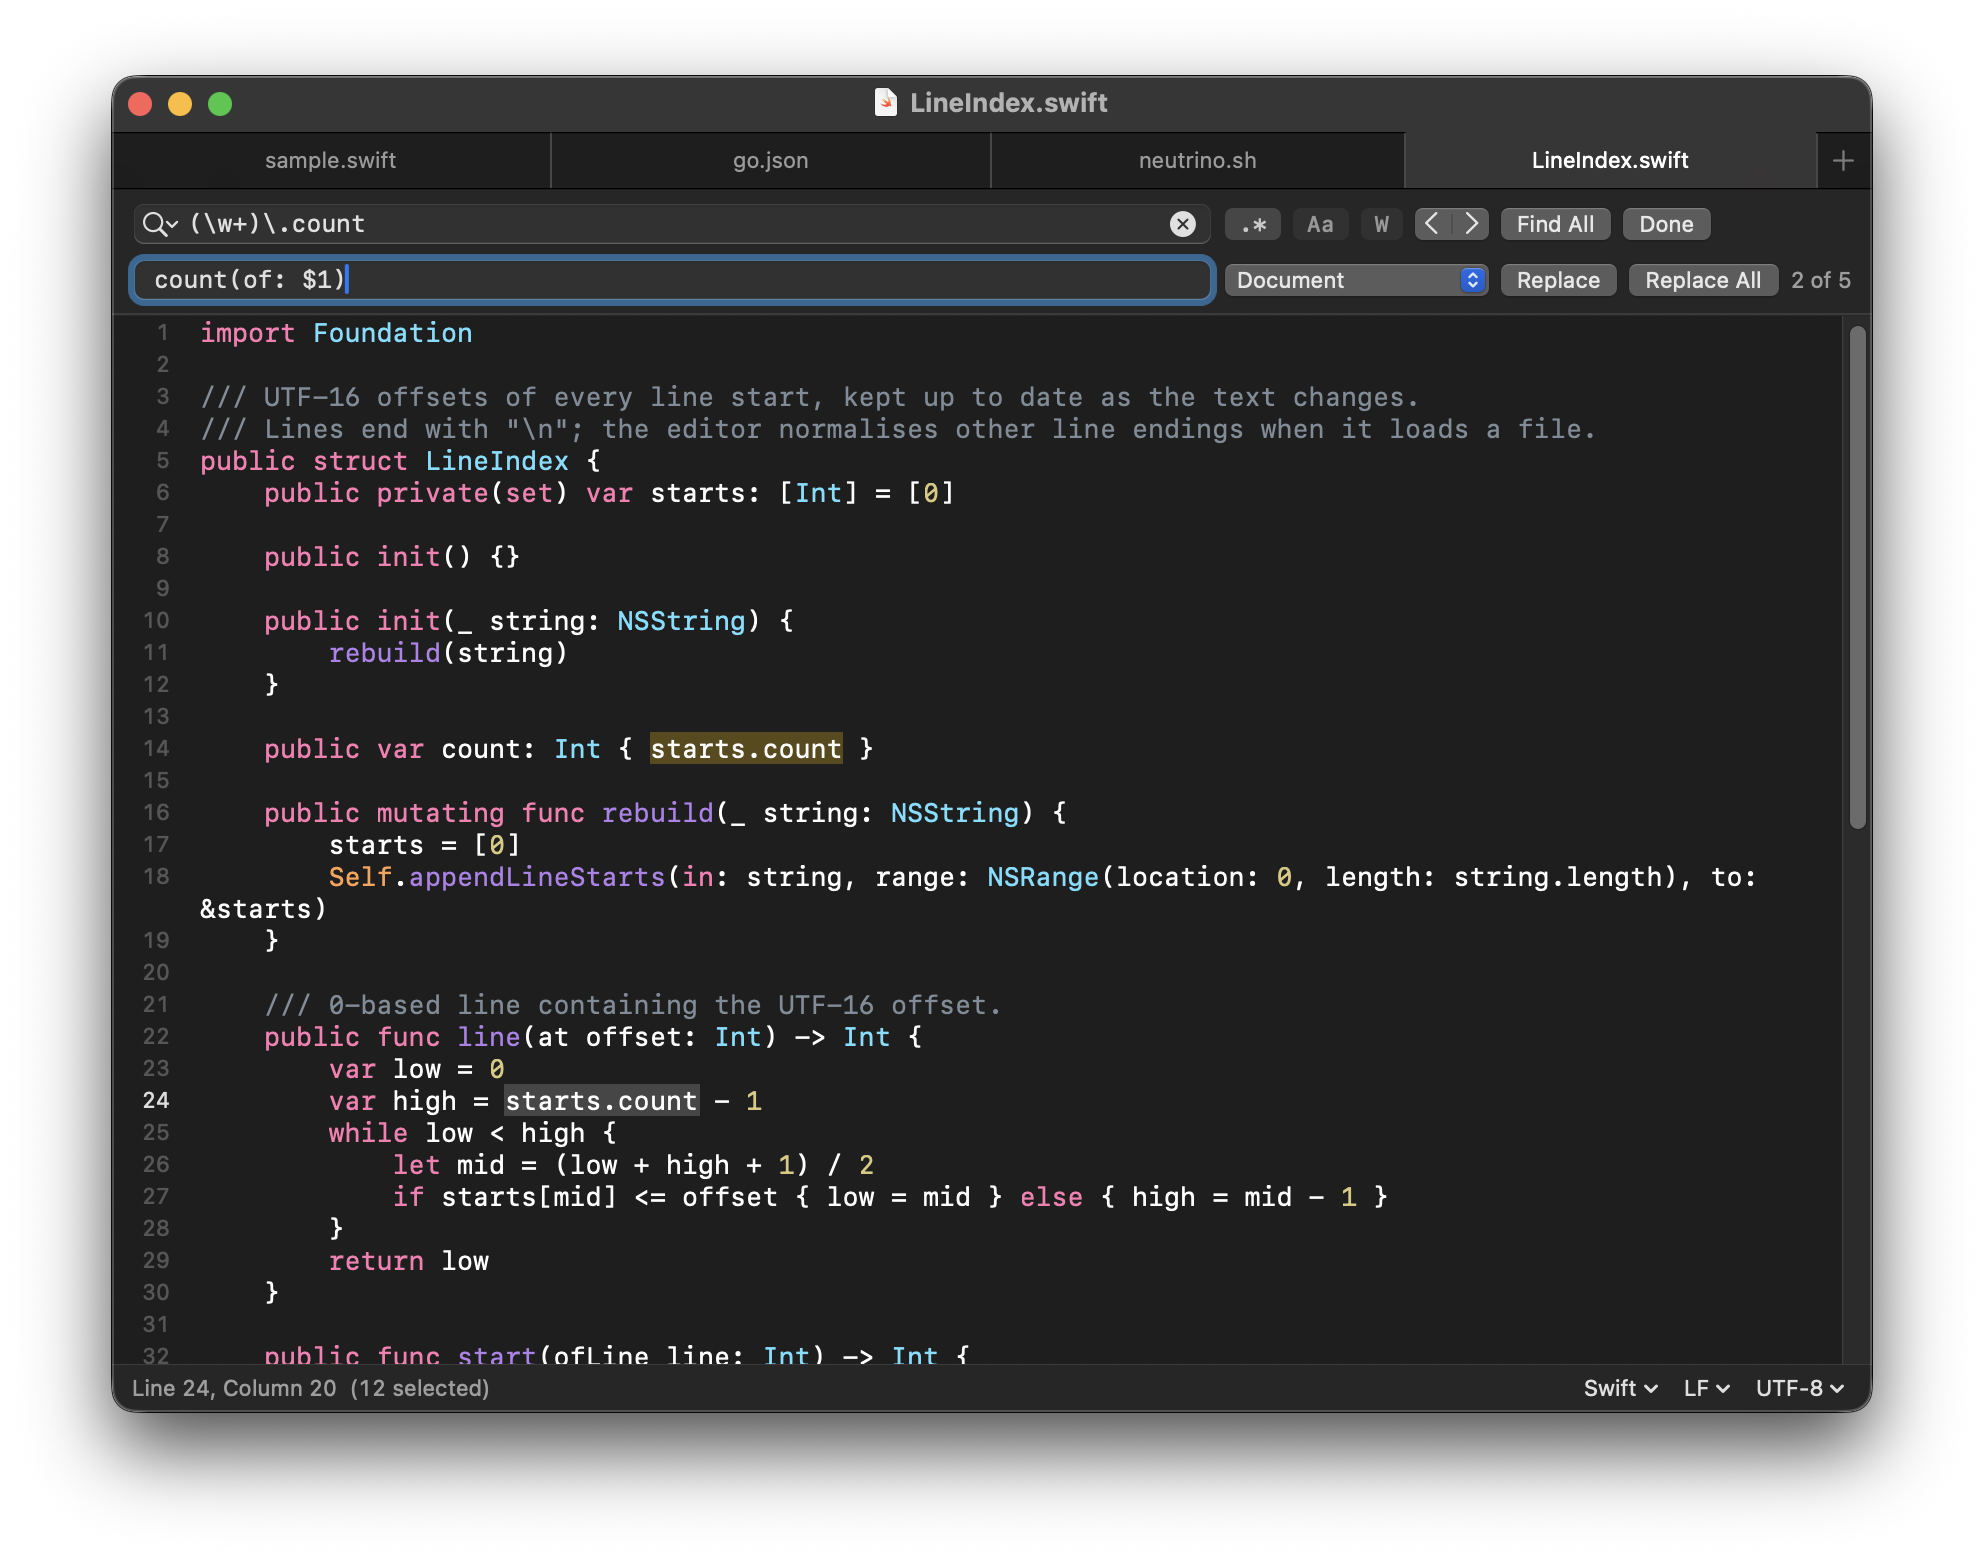
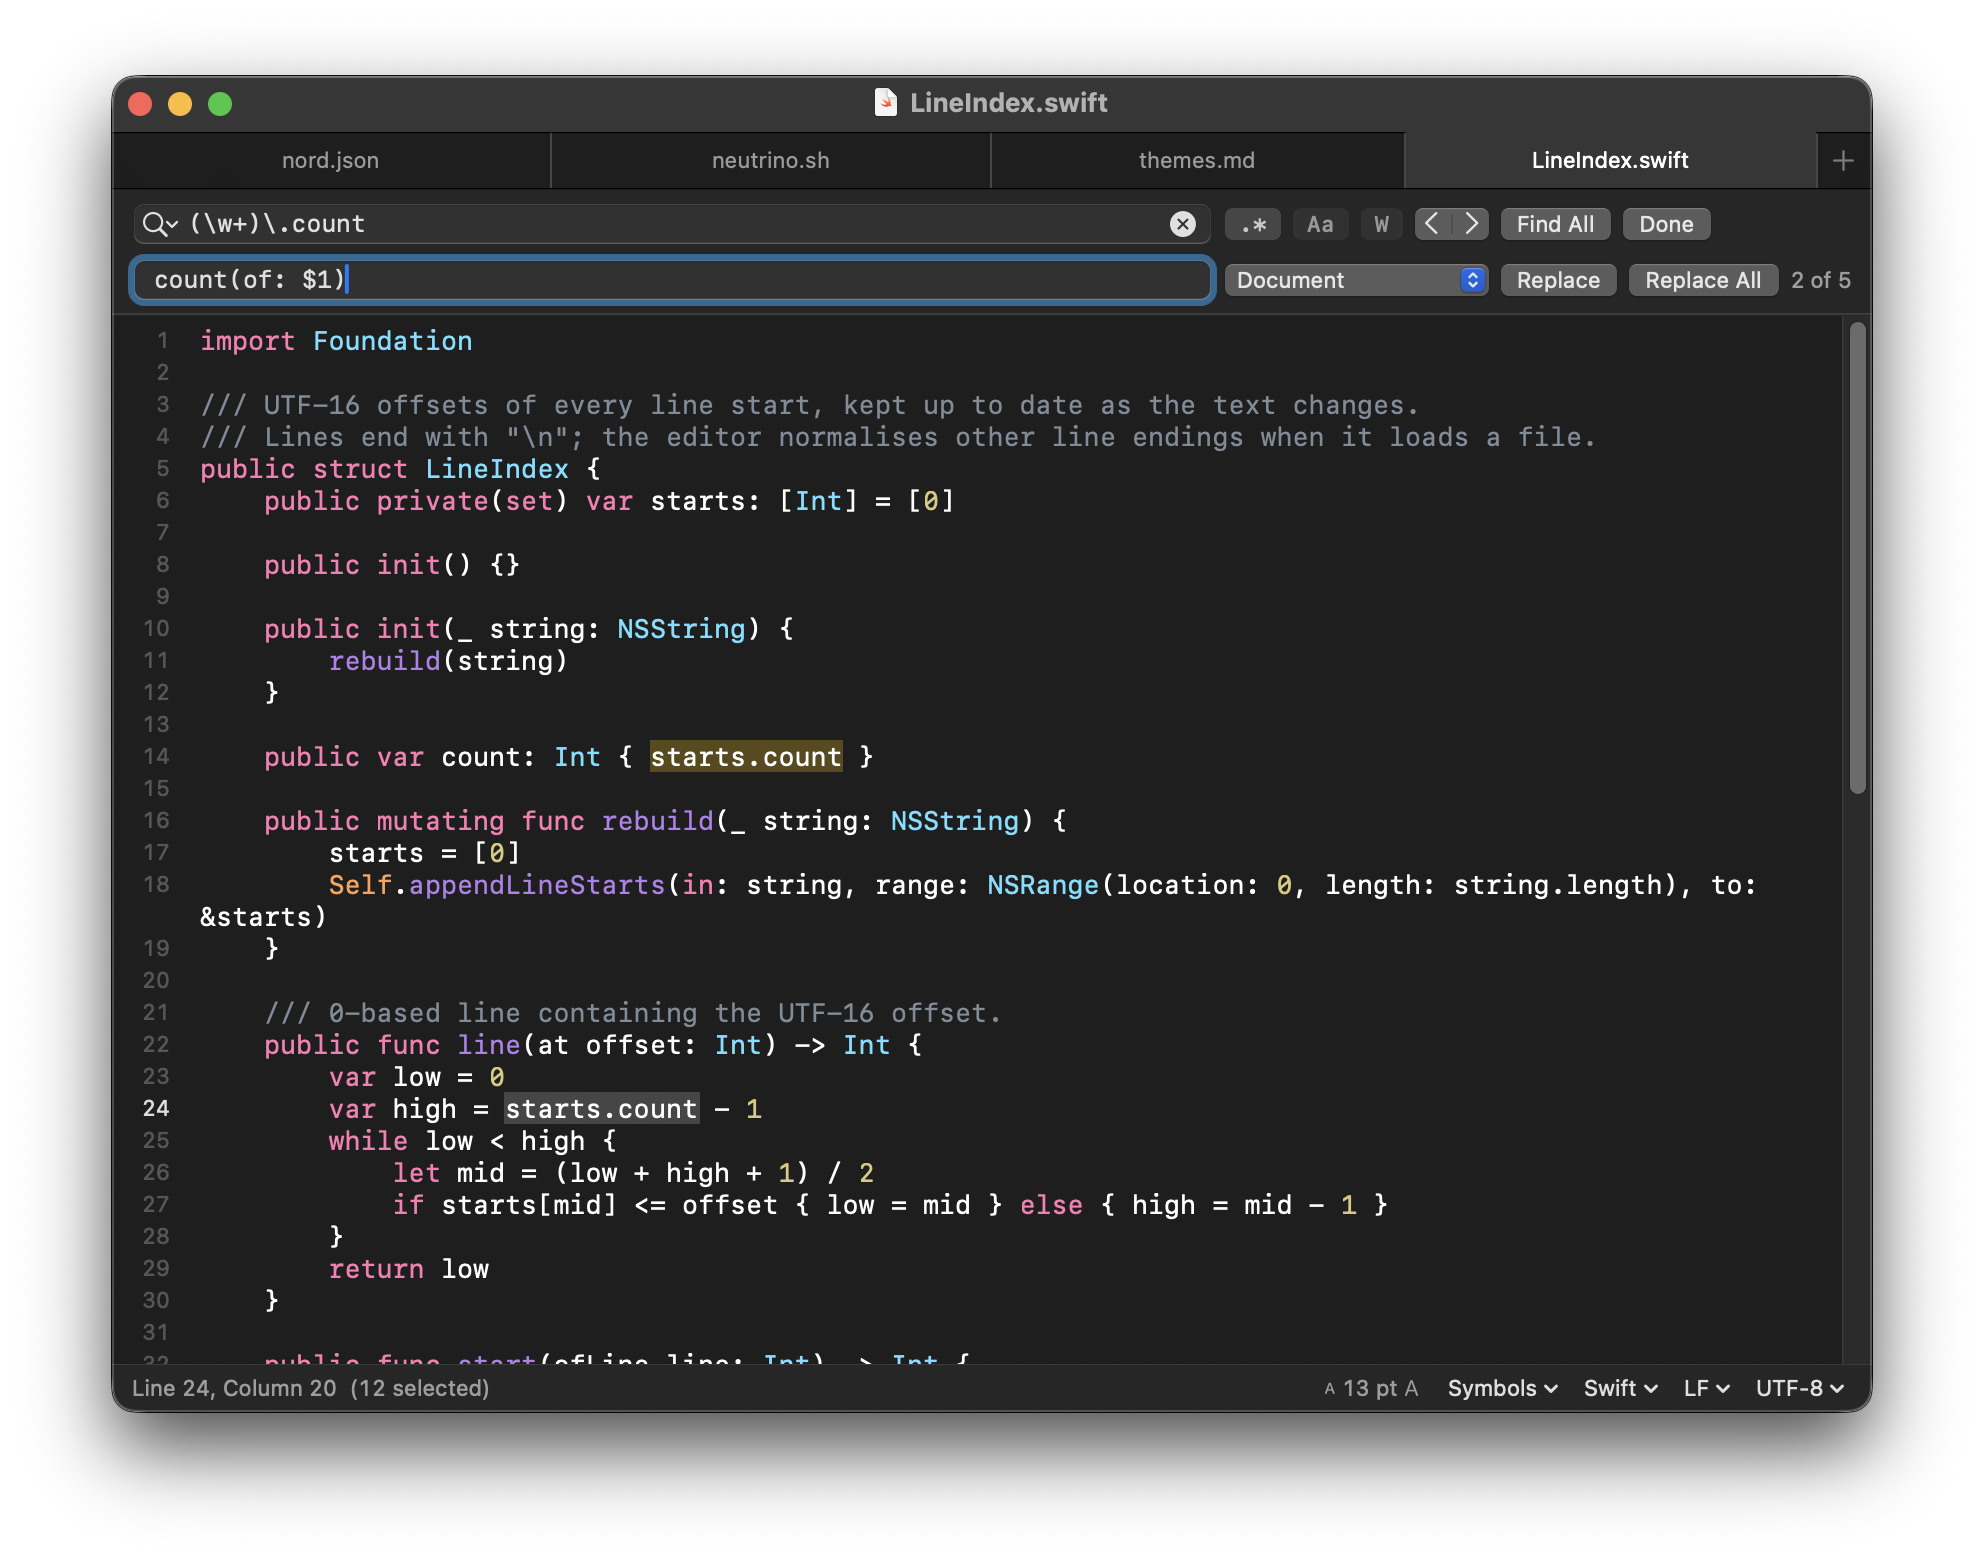
README: new screenshot, clearer description and feature groups

diff --git a/README.md b/README.md
@@ -4,63 +4,79 @@
 
 <h1 align="center">Neutrino</h1>
 
-<p align="center">A small code editor for the Mac. Tabs, syntax colouring and regex find and replace. Free and open source.</p>
+<p align="center">A code editor for the Mac. It opens files in tabs, colours 27 languages and has regex find and replace. Free and open source.</p>
 
 <p align="center">
-  <img src="docs/screenshot-dark.png" width="760" alt="Neutrino with four tabs, a Swift file and the find bar showing a regex search">
+  <img src="docs/screenshot-dark.png" width="760" alt="Neutrino with four tabs open, a Swift file and the find bar showing a regex search with two of five matches highlighted">
 </p>
+
+Neutrino edits single files. There is no project sidebar, no plugin system and no language server. The app is about 2 MB, because syntaxes and themes are not bundled: you install the ones you use and they are downloaded from this repository.
 
 ## Features
 
 **Editing**
 - Tabs, using the standard macOS window tabs: drag to reorder, drag out to a new window, <kbd>⌘</kbd><kbd>T</kbd> for a new one
 - Line numbers, line wrapping, current line highlight, invisible characters
-- Indentation is kept on new lines; brackets and quotes are closed as you type
+- New lines keep the indentation of the line above. Brackets and quotes are closed as you type
 - Spaces or tabs, with any tab width. Makefiles and Go files always use tabs
-- Multiple cursors: <kbd>⌘</kbd><kbd>D</kbd> selects the next occurrence, <kbd>⌥</kbd><kbd>⌘</kbd><kbd>↑</kbd> / <kbd>↓</kbd> adds a cursor above or below, <kbd>⌘</kbd>-click adds one anywhere, <kbd>⌥</kbd>-drag selects a column. <kbd>Esc</kbd> goes back to one
-- Line commands: move up and down, duplicate, delete, join, sort, remove duplicates, shift left and right, comment and uncomment, change case
-- The bracket matching the one beside the caret is highlighted; <kbd>⇧</kbd><kbd>⌘</kbd><kbd>M</kbd> jumps to it
-- **Filter Through Command** (<kbd>⌥</kbd><kbd>⌘</kbd><kbd>R</kbd>) sends the selection, or the whole text, through a shell command such as `sort -u` or `jq .` and replaces it with the output
-- Go to line (<kbd>⌘</kbd><kbd>L</kbd>) and go to symbol (<kbd>⇧</kbd><kbd>⌘</kbd><kbd>O</kbd>): the functions, classes and headings of the document
-- `.editorconfig` files are followed for indent style, indent size, trailing spaces and the final line break
-- A file's encoding, byte order mark and line endings are kept when saving. Change them, or reopen with another encoding, from the status bar
-- Changes are saved automatically a few seconds after you stop typing and when you switch to another window or app. macOS keeps earlier versions (**File → Revert to Saved**)
-- With **Settings → General → Save changes automatically** off, files are only written when you save. Unsaved text is still recovered after a crash
-- Files changed by another app are reloaded when there are no unsaved changes
-- **File → Compare with Saved** shows what differs from the file on disk, as a diff
-- Optionally remove trailing spaces and end the file with a line break when saving
-- Text size buttons in the status bar; the size you pick is used for every document from then on
+- The bracket matching the one beside the caret is highlighted. <kbd>⇧</kbd><kbd>⌘</kbd><kbd>M</kbd> jumps to it
+- Text size buttons in the status bar. The size you pick is used for every document from then on
+
+**Cursors and lines**
+- <kbd>⌘</kbd><kbd>D</kbd> selects the next occurrence of the selected text, so you can change them together
+- <kbd>⌥</kbd><kbd>⌘</kbd><kbd>↑</kbd> and <kbd>⌥</kbd><kbd>⌘</kbd><kbd>↓</kbd> add a cursor on the line above or below. <kbd>⌘</kbd>-click adds one anywhere, <kbd>⌥</kbd>-drag selects a column, <kbd>Esc</kbd> goes back to one cursor
+- Move lines up and down, duplicate, delete, join, sort, remove duplicates
+- Shift lines left and right, comment and uncomment, change case
+- **Filter Through Command** (<kbd>⌥</kbd><kbd>⌘</kbd><kbd>R</kbd>) sends the selection, or the whole text, to a shell command such as `sort -u` or `jq .` and replaces it with the output
 
 **Find and replace** (<kbd>⌘</kbd><kbd>F</kbd>)
 - Plain text or regular expressions, match case, whole words
 - Matches are highlighted and counted as you type
 - Search the document, the selection, or all open documents
-- **Find All** lists every match with its line; click one to go there. **Copy Matches** copies the matched text
+- **Find All** lists every match with its line. Click one to go there. **Copy Matches** copies the matched text
 - **Replace All** is a single undo step
 - In regex replacements: `$1` or `\1` for groups, `${name}` for named groups, `$0` for the whole match, `\U…\E` and `\L…\E` to change case, `\u` and `\l` for one character, `\n` and `\t`
-- Recent searches in the search field's menu
+- Recent searches are in the search field's menu
+
+**Navigation**
+- Go to line (<kbd>⌘</kbd><kbd>L</kbd>), also as `line:column`
+- Go to symbol (<kbd>⇧</kbd><kbd>⌘</kbd><kbd>O</kbd>) lists the functions, classes and headings of the document
+- <kbd>⌘</kbd><kbd>1</kbd> to <kbd>⌘</kbd><kbd>8</kbd> show that tab and <kbd>⌘</kbd><kbd>9</kbd> the last one. <kbd>⇧</kbd><kbd>⌘</kbd><kbd>T</kbd> reopens a closed tab
+
+**Files**
+- Changes are saved a few seconds after you stop typing and when you switch to another window or app. macOS keeps earlier versions (**File → Revert to Saved**)
+- With **Settings → General → Save changes automatically** off, files are written only when you save. Unsaved text is still recovered after a crash
+- A file's encoding, byte order mark and line endings are kept when saving. You can change them, or reopen with another encoding, from the status bar
+- Files changed by another app are reloaded when there are no unsaved changes
+- **File → Compare with Saved** shows what differs from the file on disk, as a diff
+- `.editorconfig` files are followed for indent style, indent size, trailing spaces and the final line break
+- Trailing spaces can be removed, and a final line break added, when you save
+- The documents from the last session are reopened
 
 **Syntaxes**
-- None are built in. Install the ones you use from **Settings → Syntaxes** or from the syntax menu in the status bar
+- None are built in. Install the ones you use from **Settings → Syntaxes** or from the syntax menu in the status bar, which offers the one that fits the open file
 - A syntax is loaded when a document uses it and unloaded when the last such document closes
 - Available: C, C++, C#, CSS, Diff, Dockerfile, Go, HTML, INI, Java, JavaScript, JSON, Kotlin, Lua, Makefile, Markdown, PHP, Python, Ruby, Rust, Shell, SQL, Swift, TOML, TypeScript, XML, YAML
-- A syntax is one JSON file. See [docs/syntaxes.md](docs/syntaxes.md) to write your own
+- A syntax is one JSON file of regular expressions. [docs/syntaxes.md](docs/syntaxes.md) describes the format
 
 **Themes**
-- Light, dark or system appearance with the built-in colours
-- More themes in **Settings → Appearance**, downloaded when you install them: Dracula, GitHub Light, Monokai, Nord, One Dark, Solarized Dark, Solarized Light
-- A theme is one JSON file. See [docs/themes.md](docs/themes.md)
+- The built-in colours follow the light, dark or system appearance
+- More themes are in **Settings → Appearance**: Dracula, GitHub Light, Monokai, Nord, One Dark, Solarized Dark, Solarized Light
+- A theme is one JSON file. [docs/themes.md](docs/themes.md) describes the format
 
 **Markdown**
-- **File → Preview in MDReader** (<kbd>⌥</kbd><kbd>⌘</kbd><kbd>P</kbd>) opens the file in [MDReader](https://github.com/rboundi/mdreader), a free Markdown reader from the same developer. It shows the rendered page and updates as you save
+- **File → Preview in MDReader** (<kbd>⌥</kbd><kbd>⌘</kbd><kbd>P</kbd>) opens the file in [MDReader](https://github.com/rboundi/mdreader), a free Markdown reader from the same developer. It shows the rendered page and updates when the file is saved
 
-**Other**
-- `neutrino` command: `neutrino main.c notes.txt`, `neutrino main.c:42` or `git diff | neutrino`
-- Reopen a closed tab with <kbd>⇧</kbd><kbd>⌘</kbd><kbd>T</kbd>; <kbd>⌘</kbd><kbd>1</kbd>…<kbd>⌘</kbd><kbd>8</kbd> show that tab, <kbd>⌘</kbd><kbd>9</kbd> the last
-- Reopens the documents from the last session
-- Weekly check for new versions on GitHub (can be turned off)
+**Command line**
+- `neutrino main.c notes.txt` opens files as tabs
+- `neutrino main.c:42` opens at line 42
+- `git diff | neutrino` opens text from a pipe
 
-Files above 4 million characters open without colours. The whole file is held in memory, so Neutrino asks before opening one larger than 150 MB.
+## Limits
+
+- Files above 4 million characters open without colours.
+- The whole file is held in memory. Neutrino asks before opening one larger than 150 MB.
+- Colouring is done with regular expressions, so it does not understand one language inside another, such as JavaScript in an HTML file.
 
 ## Install
 
